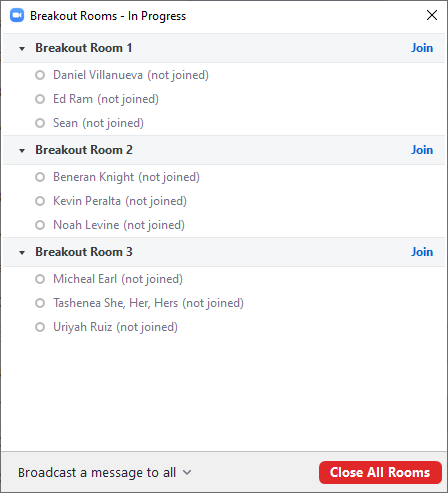
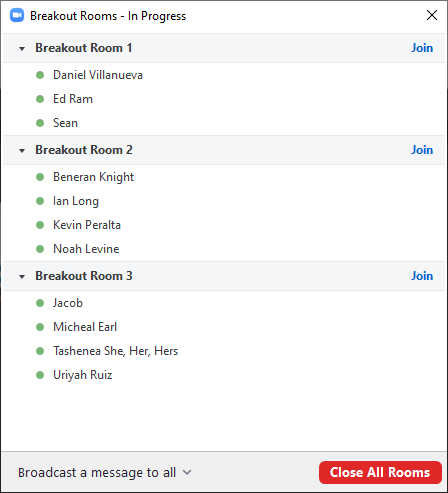
updated buddies and removed broken link.

diff --git a/Projects/Project 03/readme.md b/Projects/Project 03/readme.md
@@ -46,7 +46,7 @@ Your buddy report will be submitted on canvas and **__should not__** be included
 
 # Grading
 You will be graded using the following:
-* [66 pts] Building working chips ( [see grading PDF](3-grade_sheed.pdf) )
+* [66 pts] Building working chips (see grade sheet in this folder)
 * [33 pts] Building efficient chips 
 * [20 pts] Creating logism diagrams for each of your chips
 * [10 pts] Writing a good design diary
